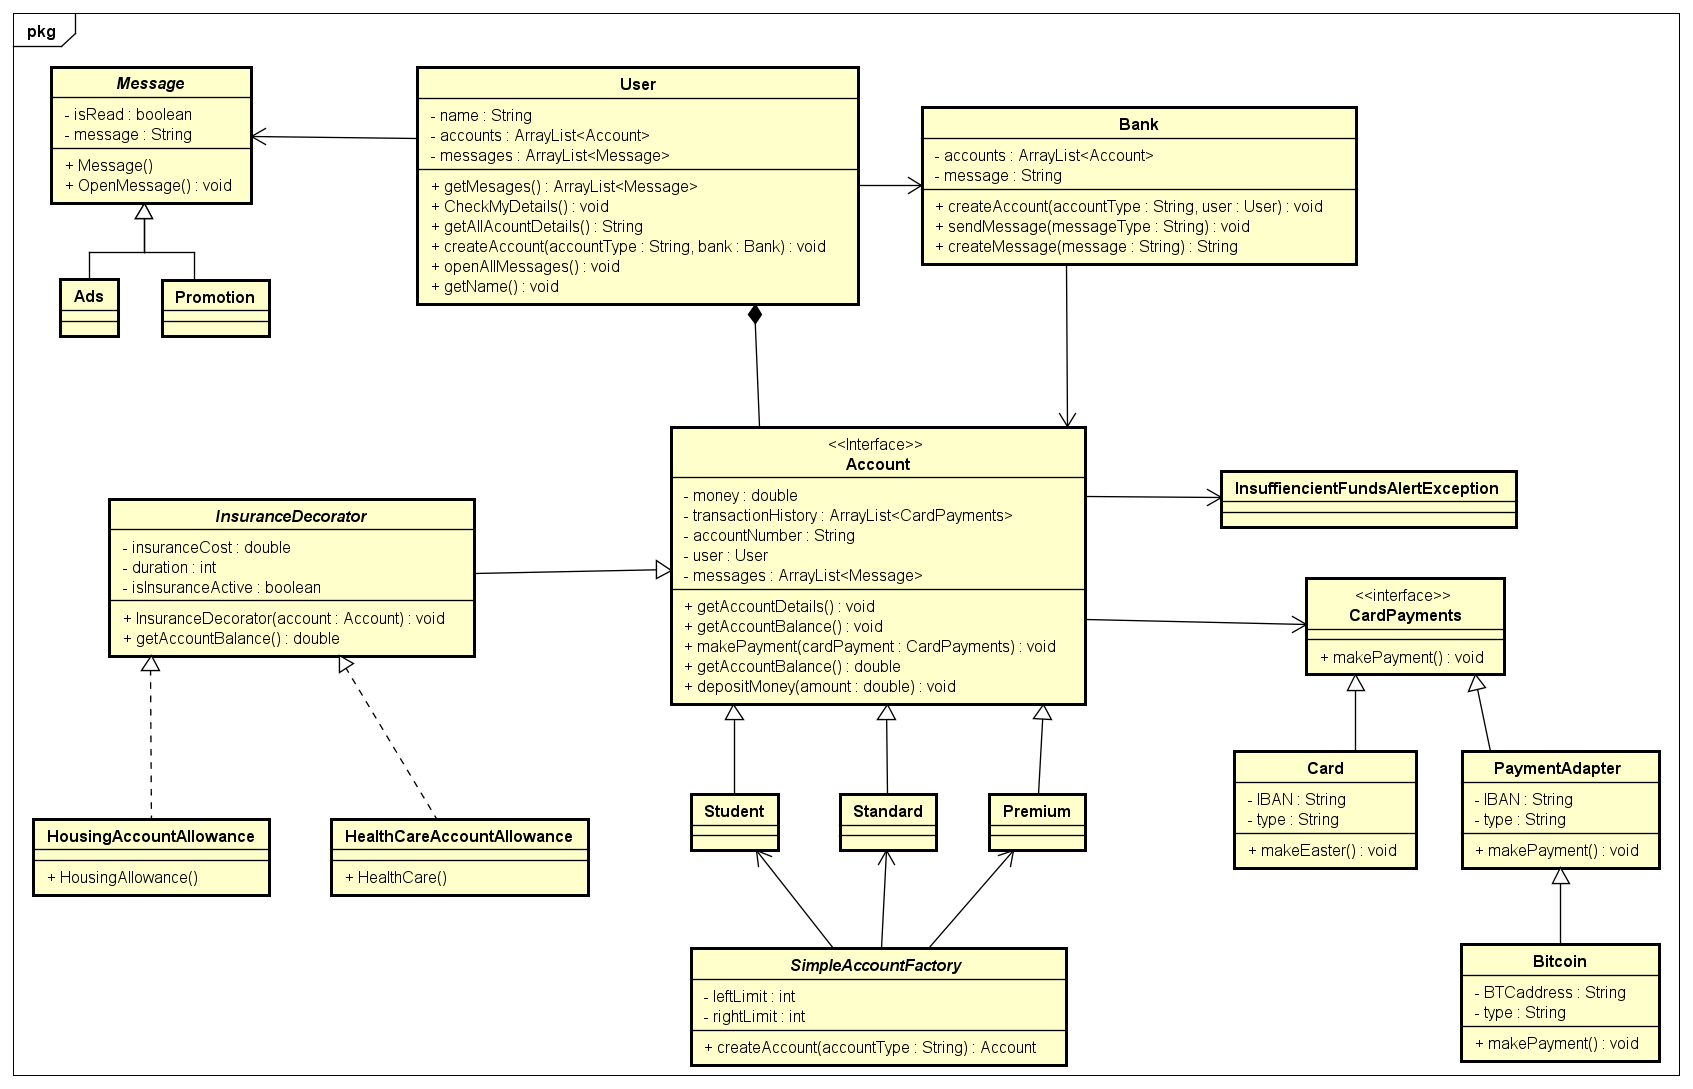
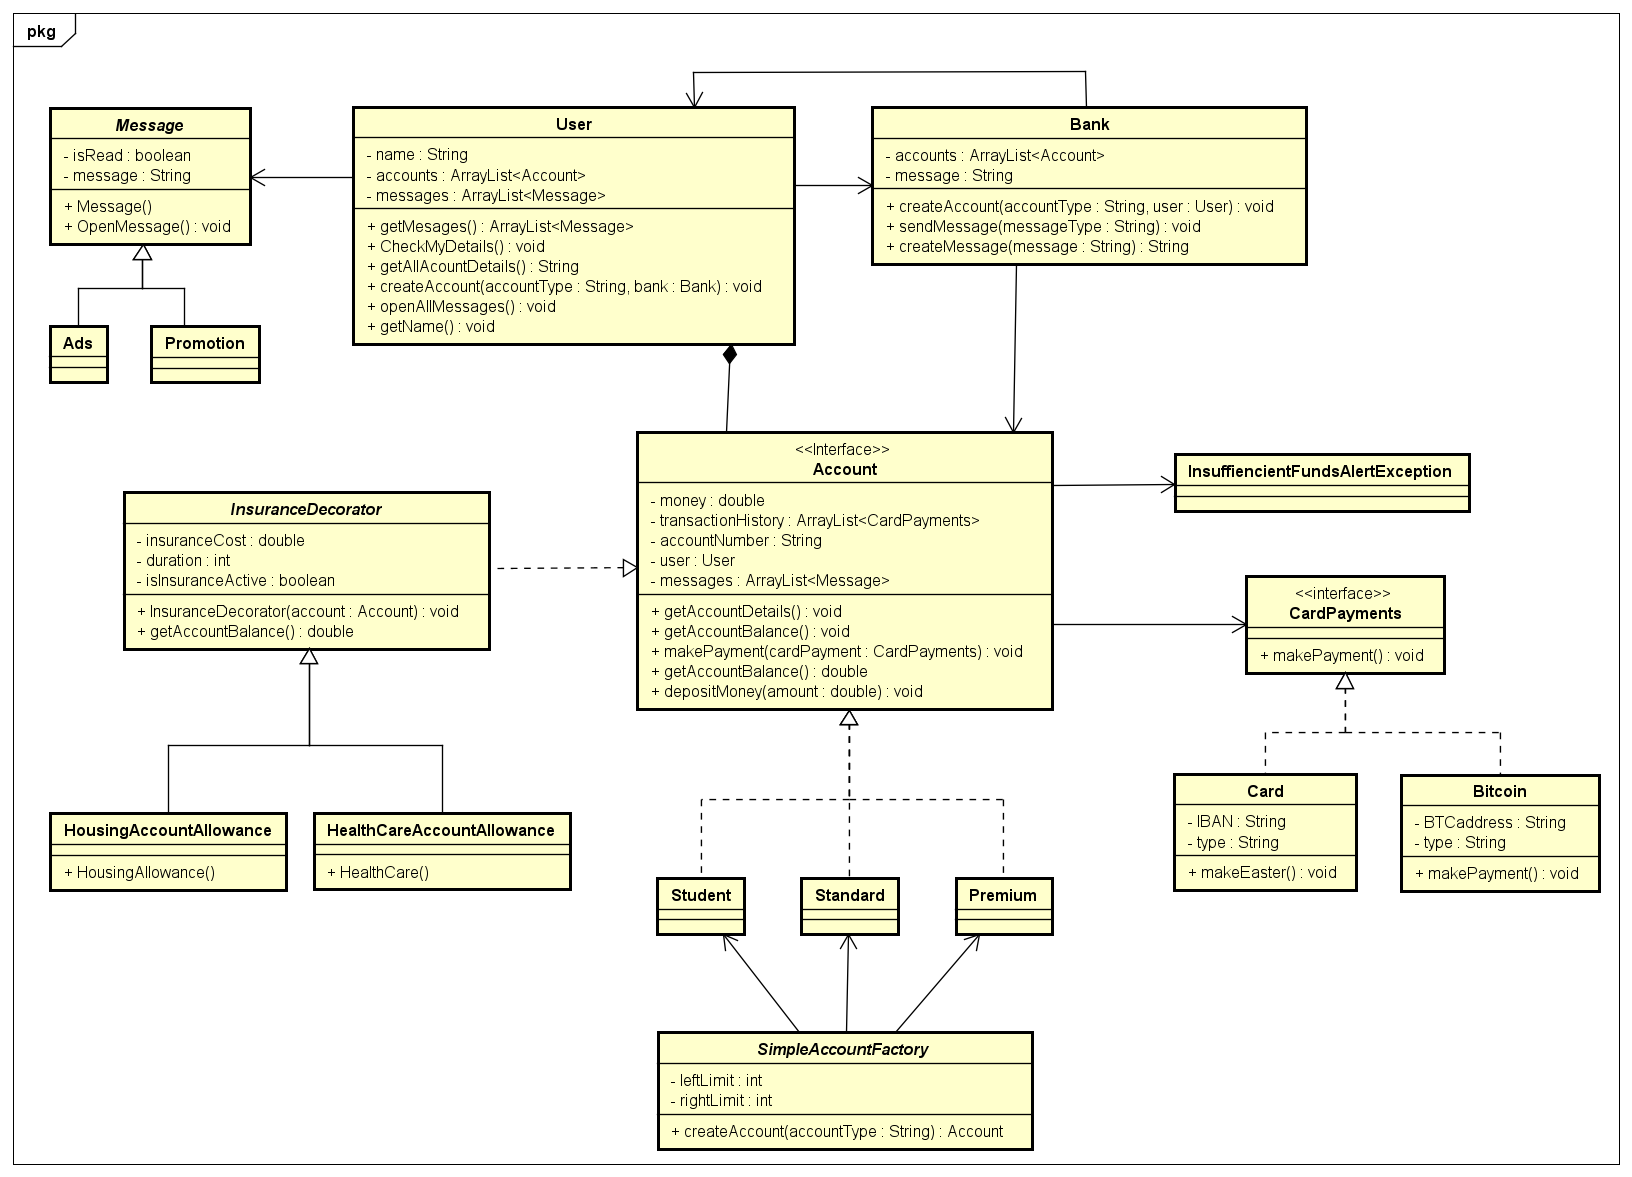
Updated UML Arrows and Readme

diff --git a/README.md b/README.md
@@ -10,21 +10,15 @@ The Following patterns were implemented into this application:
 
 - Factory Design Pattern
 - Decorator Design Pattern
-- Adapter Design Pattern
-- 4th on Design Pattern
+- Strategy Design Pattern
+- Observer Design Pattern
 
 
 
-**The Factory Design** was used to make the different types of Accounts. All accounts, in theory are the same, but a young child might not have an email address a cell phone. SO int this application it was used to make the various accounts with the same methods, but have different implementations.
+**The Factory Design** was used to make the different types of Accounts. All accounts, in theory are the same, but a young child might not have an email address a cell phone. SO in this application it was used to make the various accounts with the same methods, but have different implementations.
 
+**Decorator Pattern** was used  for decorating the account with the different types of insurance.
 
+**Strategy Design Pattern** was used for the payment. It was use to implement the Card and Bitcoin payments.
 
-**Decorator Pattern** was used 
-
-
-
-**The Adapter Design** was used in the CardPayments. The default payment is CardPayments; it requires an IBAN and a payment type. In bitcoin,  there is no IBAN present; a Bitcoin Hash Address is then being adapted to use BTC hash with IBAN.
-
-
-
-**4th Design Pattern** was used.....
+**Observer Design Pattern** was used to observe if the user has opened his messages. Essentially, it is used to know if the messages have been read/opened.
